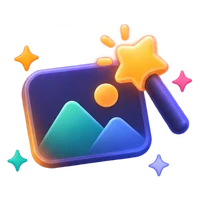
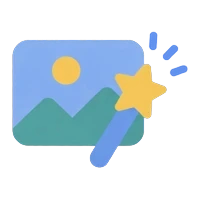
Redraw the AI pages' pictures in a flat Google-like style; blue-text buttons become grey pills
The owner picked a flat Google style over the glossy 3D pictures, which clashed with
the line icons. All 19 AI pictures (starter cards, the three steps, empty views, the
materials window, the privacy head) are redrawn with ChatGPT in one flat palette of soft
blue, teal and yellow on a transparent ground; any dark stroke that touched the ground
was recoloured blue so the dark theme shows it. Buttons drawn as blue text on the home
page, scan page, current node, feedback dialog, voice import, the AI workbench's fold
toggle and the decisions list are grey pills like the privacy overview's; real links to
web pages stay links.

Tests: node tools/run_tests.mjs (All passed); home page, a new task's three steps, the
privacy overview and the decisions list checked on the test ComfyUI.

diff --git a/web/styles/15-shell-rail.css b/web/styles/15-shell-rail.css
@@ -363,16 +363,18 @@
 }
 
 .anomalous-home-link {
-    padding: 2px 0;
+    padding: 3px 10px;
     border: none;
-    background: none;
-    color: var(--amb-link);
-    font-size: inherit;
+    border-radius: 999px;
+    background: rgba(var(--amb-ink-rgb), 0.08);
+    color: var(--amb-text-main);
+    font-size: 12px;
     cursor: pointer;
 }
 
-.anomalous-home-link:hover {
-    text-decoration: underline;
+.anomalous-home-link:hover,
+.anomalous-home-link:focus-visible {
+    background: rgba(var(--amb-ink-rgb), 0.14);
 }
 
 /* The first-run setup above the task cards (ui_first_run.js): four steps, then Set up for me. */
@@ -718,13 +720,20 @@
 
 .anomalous-feedback-link {
     align-self: flex-start;
-    padding: 0 0 0 24px;
+    margin-left: 24px;
+    padding: 3px 10px;
     border: none;
-    background: none;
-    color: var(--amb-link);
+    border-radius: 999px;
+    background: rgba(var(--amb-ink-rgb), 0.08);
+    color: var(--amb-text-main);
     font: inherit;
     font-size: 12px;
     cursor: pointer;
+}
+
+.anomalous-feedback-link:hover,
+.anomalous-feedback-link:focus-visible {
+    background: rgba(var(--amb-ink-rgb), 0.14);
 }
 
 .anomalous-feedback-preview {

diff --git a/web/styles/37-ai-workbench.css b/web/styles/37-ai-workbench.css
@@ -1069,8 +1069,8 @@
 .anomalous-ai-fold { display: flex; flex-direction: column; align-items: flex-start; gap: 4px; }
 .anomalous-ai-fold > :first-child { max-width: 100%; }
 .anomalous-ai-fold.is-folded > :first-child { max-height: 10.5em; overflow: hidden; -webkit-mask-image: linear-gradient(black 55%, transparent); mask-image: linear-gradient(black 55%, transparent); }
-.anomalous-ai-fold-toggle { padding: 2px 0; border: 0; background: none; color: var(--amb-link); font: inherit; font-size: 12px; cursor: pointer; }
-.anomalous-ai-fold-toggle:hover { text-decoration: underline; }
+.anomalous-ai-fold-toggle { padding: 3px 10px; border: 0; border-radius: 999px; background: rgba(var(--amb-ink-rgb), 0.08); color: var(--amb-text-main); font: inherit; font-size: 12px; cursor: pointer; }
+.anomalous-ai-fold-toggle:hover, .anomalous-ai-fold-toggle:focus-visible { background: rgba(var(--amb-ink-rgb), 0.14); }
 
 /* A short window (ui_ai_workbench.js layout: the page under SHORT_PX, not maximised): less room
    around the task's head, the message box's hint only for a failure (its words are the input's

diff --git a/web/styles/47-ai-decisions.css b/web/styles/47-ai-decisions.css
@@ -31,8 +31,8 @@
 .anomalous-ai-decision-by.is-user { background: color-mix(in srgb, var(--amb-link) 16%, transparent); color: var(--amb-link); }
 .anomalous-ai-decision-by.is-together { background: color-mix(in srgb, var(--amb-ok) 16%, transparent); color: var(--amb-ok-text, var(--amb-ok)); }
 .anomalous-ai-decision-links { display: flex; flex-wrap: wrap; align-items: center; gap: 4px 10px; color: var(--amb-text-dim); font-size: 11.5px; }
-.anomalous-ai-decision-link { padding: 0; border: 0; background: none; color: var(--amb-link); font: inherit; font-size: 12px; cursor: pointer; }
-.anomalous-ai-decision-link:hover { text-decoration: underline; }
+.anomalous-ai-decision-link { padding: 2px 9px; border: 0; border-radius: 999px; background: rgba(var(--amb-ink-rgb), 0.08); color: var(--amb-text-main); font: inherit; font-size: 12px; cursor: pointer; }
+.anomalous-ai-decision-link:hover, .anomalous-ai-decision-link:focus-visible { background: rgba(var(--amb-ink-rgb), 0.14); }
 
 .anomalous-ai-decisions { display: flex; flex-direction: column; gap: 4px; }
 .anomalous-ai-decisions-gap {

diff --git a/web/styles/20-current-node.css b/web/styles/20-current-node.css
@@ -362,17 +362,18 @@ button.anomalous-node-param-source:hover { background: color-mix(in srgb, var(--
 
 .anomalous-node-param-link {
     flex-shrink: 0;
-    padding: 0;
+    padding: 3px 10px;
     border: none;
-    background: none;
-    color: var(--amb-link);
+    border-radius: 999px;
+    background: rgba(var(--amb-ink-rgb), 0.08);
+    color: var(--amb-text-main);
     font: inherit;
     cursor: pointer;
 }
 
-.anomalous-node-param-link:hover {
-    text-decoration: underline;
-    text-underline-offset: 2px;
+.anomalous-node-param-link:hover,
+.anomalous-node-param-link:focus-visible {
+    background: rgba(var(--amb-ink-rgb), 0.14);
 }
 
 /* The values: the name, then a picture of the change (two bars for numbers, old → new otherwise). */

diff --git a/web/modules/ui_ai_art.js b/web/modules/ui_ai_art.js
@@ -1,6 +1,6 @@
 /**
- * The AI pages' pictures (web/assets, drawn with ChatGPT in one style: glossy icons on a transparent
- * ground), so a picture can stand where a paragraph stood: the waiting page's steps, the empty views of
+ * The AI pages' pictures (web/assets, drawn with ChatGPT in one style: flat filled shapes in soft blue,
+ * teal and yellow on a transparent ground, any stroke touching the ground blue so a dark theme shows it), so a picture can stand where a paragraph stood: the waiting page's steps, the empty views of
  * the side column (emptyState), the connect guide, the "Ask first" window. Static files only.
  */
 

diff --git a/web/styles/12-tts-setup.css b/web/styles/12-tts-setup.css
@@ -441,15 +441,19 @@
 }
 
 .anomalous-tts-link {
-    padding: 0;
+    padding: 3px 10px;
     border: none;
-    background: none;
-    color: var(--amb-link);
+    border-radius: 999px;
+    background: rgba(var(--amb-ink-rgb), 0.08);
+    color: var(--amb-text-main);
     font: inherit;
     font-size: 12px;
-    text-decoration: underline;
-    text-underline-offset: 2px;
     cursor: pointer;
+}
+
+.anomalous-tts-link:hover,
+.anomalous-tts-link:focus-visible {
+    background: rgba(var(--amb-ink-rgb), 0.14);
 }
 
 /* ---------- Import window ----------

diff --git a/web/styles/30-scan-picker.css b/web/styles/30-scan-picker.css
@@ -254,12 +254,18 @@
 
 .anomalous-pick-link {
     margin-left: auto;
-    padding: 4px 6px;
+    padding: 3px 10px;
     border: none;
-    background: transparent;
-    color: var(--amb-link);
-    font-size: 13px;
+    border-radius: 999px;
+    background: rgba(var(--amb-ink-rgb), 0.08);
+    color: var(--amb-text-main);
+    font-size: 12.5px;
     cursor: pointer;
+}
+
+.anomalous-pick-link:hover:not(:disabled),
+.anomalous-pick-link:focus-visible {
+    background: rgba(var(--amb-ink-rgb), 0.14);
 }
 
 .anomalous-scan-actions .anomalous-pick-link {

diff --git a/web/styles/18-scan-page.css b/web/styles/18-scan-page.css
@@ -199,7 +199,7 @@
 
 .anomalous-scan-hero-sentence .anomalous-pick-link {
     margin-left: 0;
-    padding: 0;
+    padding: 1px 8px;
 }
 
 .anomalous-scan-hero-warn {

diff --git a/CHANGELOG.md b/CHANGELOG.md
@@ -2,6 +2,8 @@
 
 ## v1.64.0 — unreleased
 
+- AI 页面的图全部换了画风：从亮晶晶的立体图换成谷歌风的平涂图（柔和的蓝、青、黄，没有闪光），主页的六张卡片、三步引导、空白页、素材窗、隐私一览顶上的图都换了，跟按钮上的细线条图标更搭；深色主题下线条也看得清。别的窗口里画成蓝色文字的按钮（主页、扫描、当前节点、反馈、语音导入、AI 工作台、定下的事）也都换成灰色圆角小按钮；真正打开网页的链接不变。
+- The AI pages' pictures are redrawn in a flat Google-like style (soft blue, teal and yellow, no sparkle), matching the line icons; strokes stay visible on the dark theme. Buttons drawn as blue text elsewhere (home, scan, current node, feedback, voice import, the AI workbench, decisions) are grey pills now; real links to web pages stay links.
 - 「隐私一览」字少了很多：蓝色文字按钮都换成灰色圆角小按钮；每条一块浅色圆角底，不再画线；“给 AI 的备注”收成一个小按钮，点了才出输入框；代号旁不再写“已换成代号”，鼠标停上去才说；AMB 替你写给 AI 的英文说明只显示一行（「你选的出图方法」「你在素材窗挑的东西」和里面的代号），点「AI 收到的原话」才展开；「补充藏词」「跳到时间线」变成两个小图标。
 - The Privacy overview says much less: quiet grey buttons instead of blue text links, each row a soft card, the note for the AI behind a small button, tokens without “Swapped for”, and Anomalous's own English messages to the AI one line each (“What the AI got” unfolds them); hiding more words and finding a message on the timeline are two small icons.
 - 隐私任务也能让 AI 看一小块图了：标图窗口里，方框旁点「给 AI 看」，只有那一块（周围留一圈、你框的地方用红色虚线标出）发给 AI，用来看这一处的光影和衔接；图里的工作流、提示词这些文字全部去掉，跑图还是用本机的原图，重绘的范围照你画的不变。框得超过整张图一半会先问一句。AI 自己没有办法裁图，只有你框的才会发出去。
